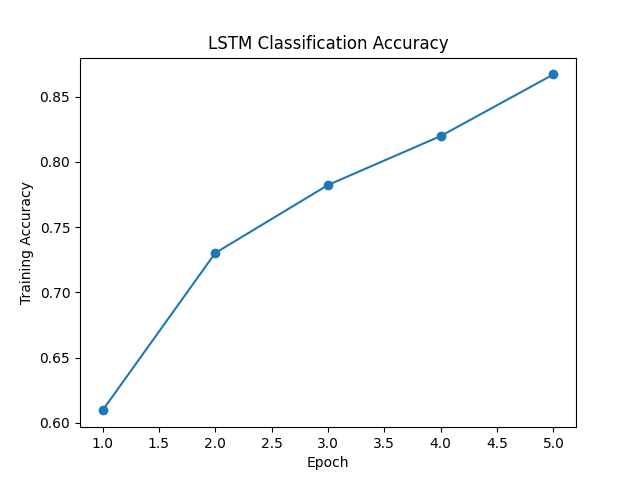
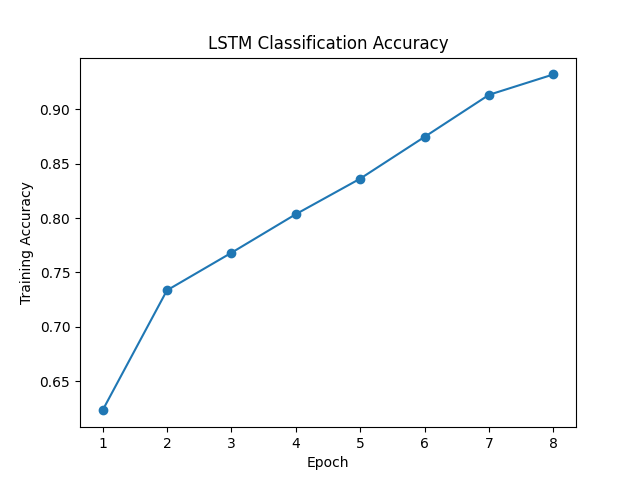
get to 85% accuracy

diff --git a/local_code/stage_4_code/RunStage4.py b/local_code/stage_4_code/RunStage4.py
@@ -38,10 +38,10 @@ os.makedirs(PLOTS_DIR, exist_ok=True)
 os.makedirs(RESULTS_DIR, exist_ok=True)
 
 MAX_VOCAB_SIZE = 20000
-MAX_REVIEW_LEN = 200
+MAX_REVIEW_LEN = 300
 BATCH_SIZE = 64
 
-CLASS_EPOCHS = 5
+CLASS_EPOCHS = 8
 GEN_EPOCHS = 30
 
 EMBED_DIM = 128
